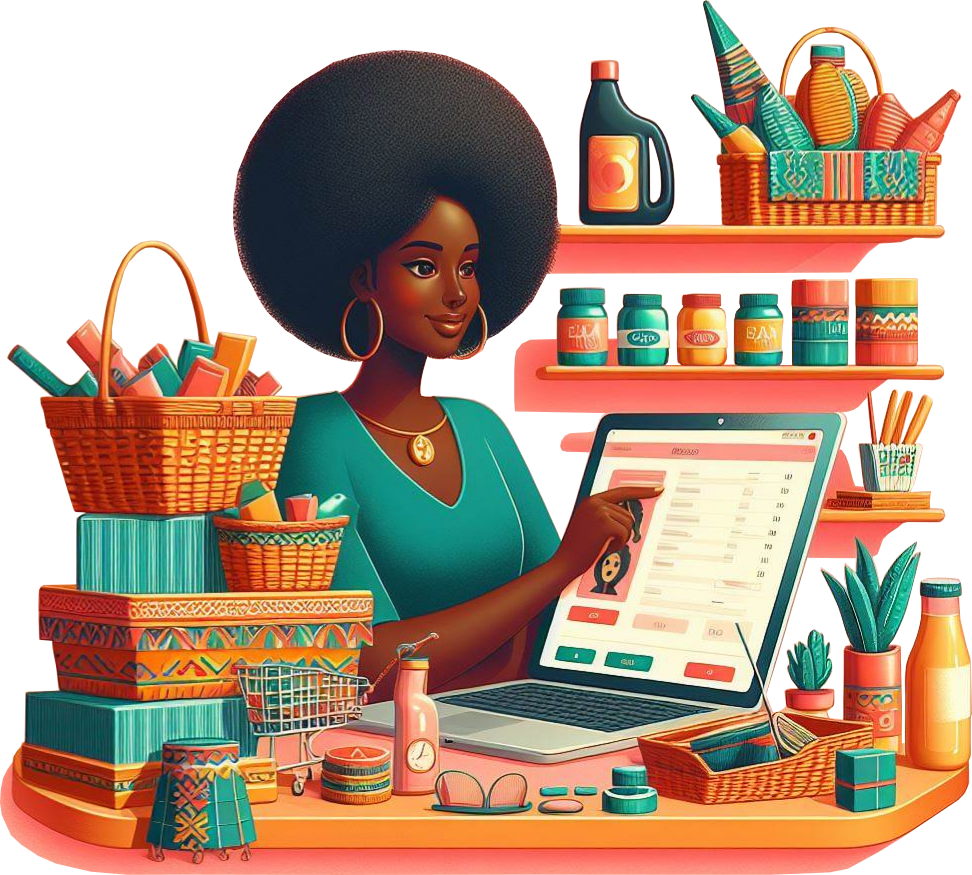
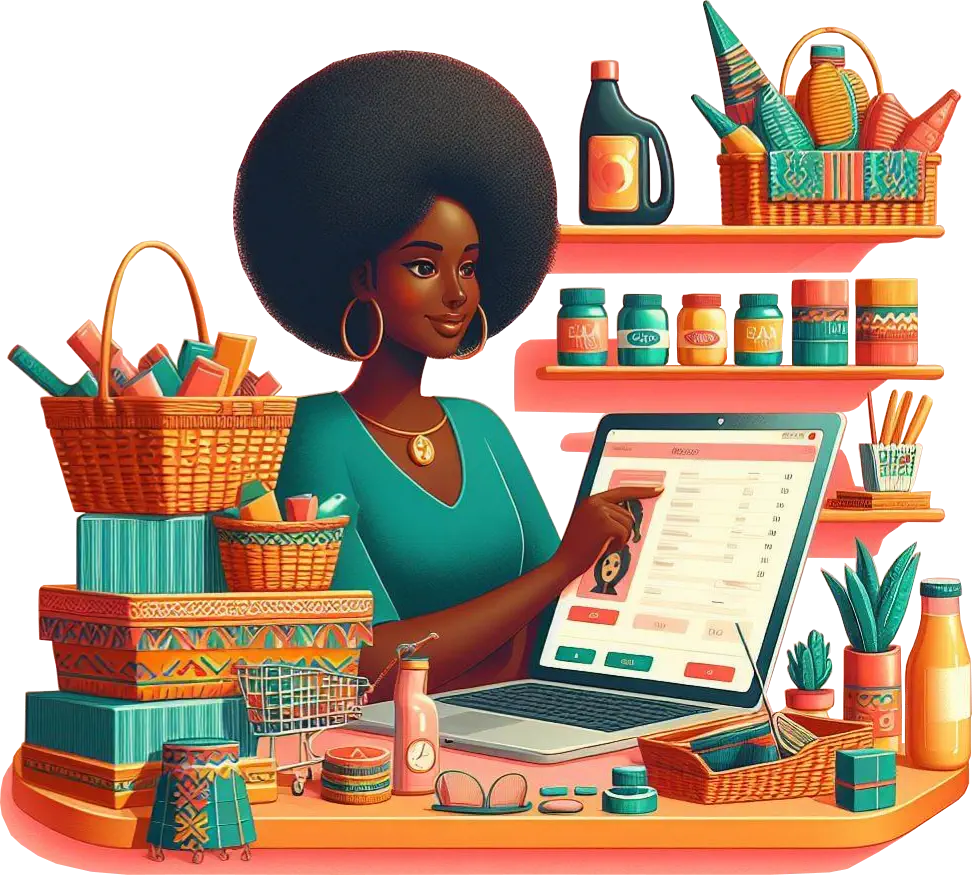
Compression des images2

diff --git a/assets/react/components/home-sections/PresentationSection.js b/assets/react/components/home-sections/PresentationSection.js
@@ -24,14 +24,14 @@ const PresentationSection = () => {
                             duration={1000}
                             containerId={"root"}
                             className={"linkToScroll"}
-                        ><Tooltip title="Découvrir les avantages d'un site vitrine" arrow> <span>une simple page de présentation</span></Tooltip></Link>, <Link
+                        > <Tooltip title="Découvrir les avantages d'un site vitrine" arrow><span>une simple page de présentation</span></Tooltip></Link>, <Link
                             to="p__merchant-site"
                             smooth={true}
                             offset={-100}
                             duration={1000}
                             containerId={"root"}
                             className={"linkToScroll"}
-                        ><Tooltip title="Découvrir les avantages d'un site e-commerce" arrow> <span>un site e-commerce dynamique</span></Tooltip></Link> ou <Link
+                        > <Tooltip title="Découvrir les avantages d'un site e-commerce" arrow><span>un site e-commerce dynamique</span></Tooltip></Link> ou <Link
                             to="p__website-app"
                             title="Application Web"
                             smooth={true}
@@ -39,7 +39,7 @@ const PresentationSection = () => {
                             duration={1000}
                             containerId={"root"}
                             className={"linkToScroll"}
-                        ><Tooltip title="Découvrir les avantages d'une application Web" arrow> <span>une application complète</span></Tooltip></Link> qui gère tous les aspects de votre entreprise, nous vous accompagnons dans la création d'une présence en ligne efficace, professionnelle et parfaitement alignée avec votre vision.
+                        > <Tooltip title="Découvrir les avantages d'une application Web" arrow><span>une application complète</span></Tooltip></Link> qui gère tous les aspects de votre entreprise, nous vous accompagnons dans la création d'une présence en ligne efficace, professionnelle et parfaitement alignée avec votre vision.
                         </p>
                     </ScrollIntersectionEffect>
                     <ScrollIntersectionEffect>

diff --git a/assets/app.js b/assets/app.js
@@ -1,7 +1,8 @@
-import React from "react"
+import React, {useEffect, useState} from "react"
 import './styles/app.scss';
 import {createRoot} from "react-dom/client";
 import {BrowserRouter, Route, Routes} from "react-router-dom";
+import FontFaceObserver from "fontfaceobserver";
 import Home from "./react/pages/Home";
 import Base from "./react/base/Base";
 import {Provider} from "react-redux";
@@ -10,6 +11,29 @@ import {ThemeProvider} from "@mui/material";
 import {customTheme} from "./react/theme/customTheme";
 
 function App() {
+    const [fontsLoaded, setFontsLoaded] = useState(false);
+
+    useEffect(() => {
+        const loadFonts = async () => {
+            try {
+                const logoFont = new FontFaceObserver('Logo Police');
+                const defaultFontRegular = new FontFaceObserver('Default Police', { weight: 'normal' });
+                const defaultFontBold = new FontFaceObserver('Default Police', { weight: 'bold' });
+
+                await Promise.all([logoFont.load(), defaultFontRegular.load(),defaultFontBold.load()]);
+                setFontsLoaded(true);
+            } catch (e) {
+                console.error("Erreur lors du chargement des polices", e);
+                setFontsLoaded(true);
+            }
+        };
+
+        loadFonts();
+    }, []);
+
+    if (!fontsLoaded) {
+        return <div></div>; // Ou tout autre indicateur de chargement
+    }
     return <ThemeProvider theme={customTheme}>
         <Provider store={store}>
             <BrowserRouter>

diff --git a/assets/react/components/home-sections/WebsiteSection.js b/assets/react/components/home-sections/WebsiteSection.js
@@ -1,5 +1,5 @@
 import React from 'react';
-import imgWebsite from "../../../images/website-low.webp";
+import imgWebsite from "../../../images/website.webp";
 import ScrollIntersectionEffect from "../ScrollIntersectionEffect";
 import FlipCard from "../FlipCard";
 import Paper from "@mui/material/Paper";

diff --git a/assets/react/components/home-sections/WebsiteAppSection.js b/assets/react/components/home-sections/WebsiteAppSection.js
@@ -1,5 +1,5 @@
 import React, {useState} from 'react';
-import imgWebsiteApp from "../../../images/website-app-low.webp";
+import imgWebsiteApp from "../../../images/website-app.webp";
 import ScrollIntersectionEffect from "../ScrollIntersectionEffect";
 import FlipCard from "../FlipCard";
 

diff --git a/assets/react/components/home-sections/MerchantSiteSection.js b/assets/react/components/home-sections/MerchantSiteSection.js
@@ -1,5 +1,5 @@
 import React from 'react';
-import imgMerchantSite from "../../../images/merchant-site-low.webp";
+import imgMerchantSite from "../../../images/merchant-site.webp";
 import ScrollIntersectionEffect from "../ScrollIntersectionEffect";
 import FlipCard from "../FlipCard";
 
